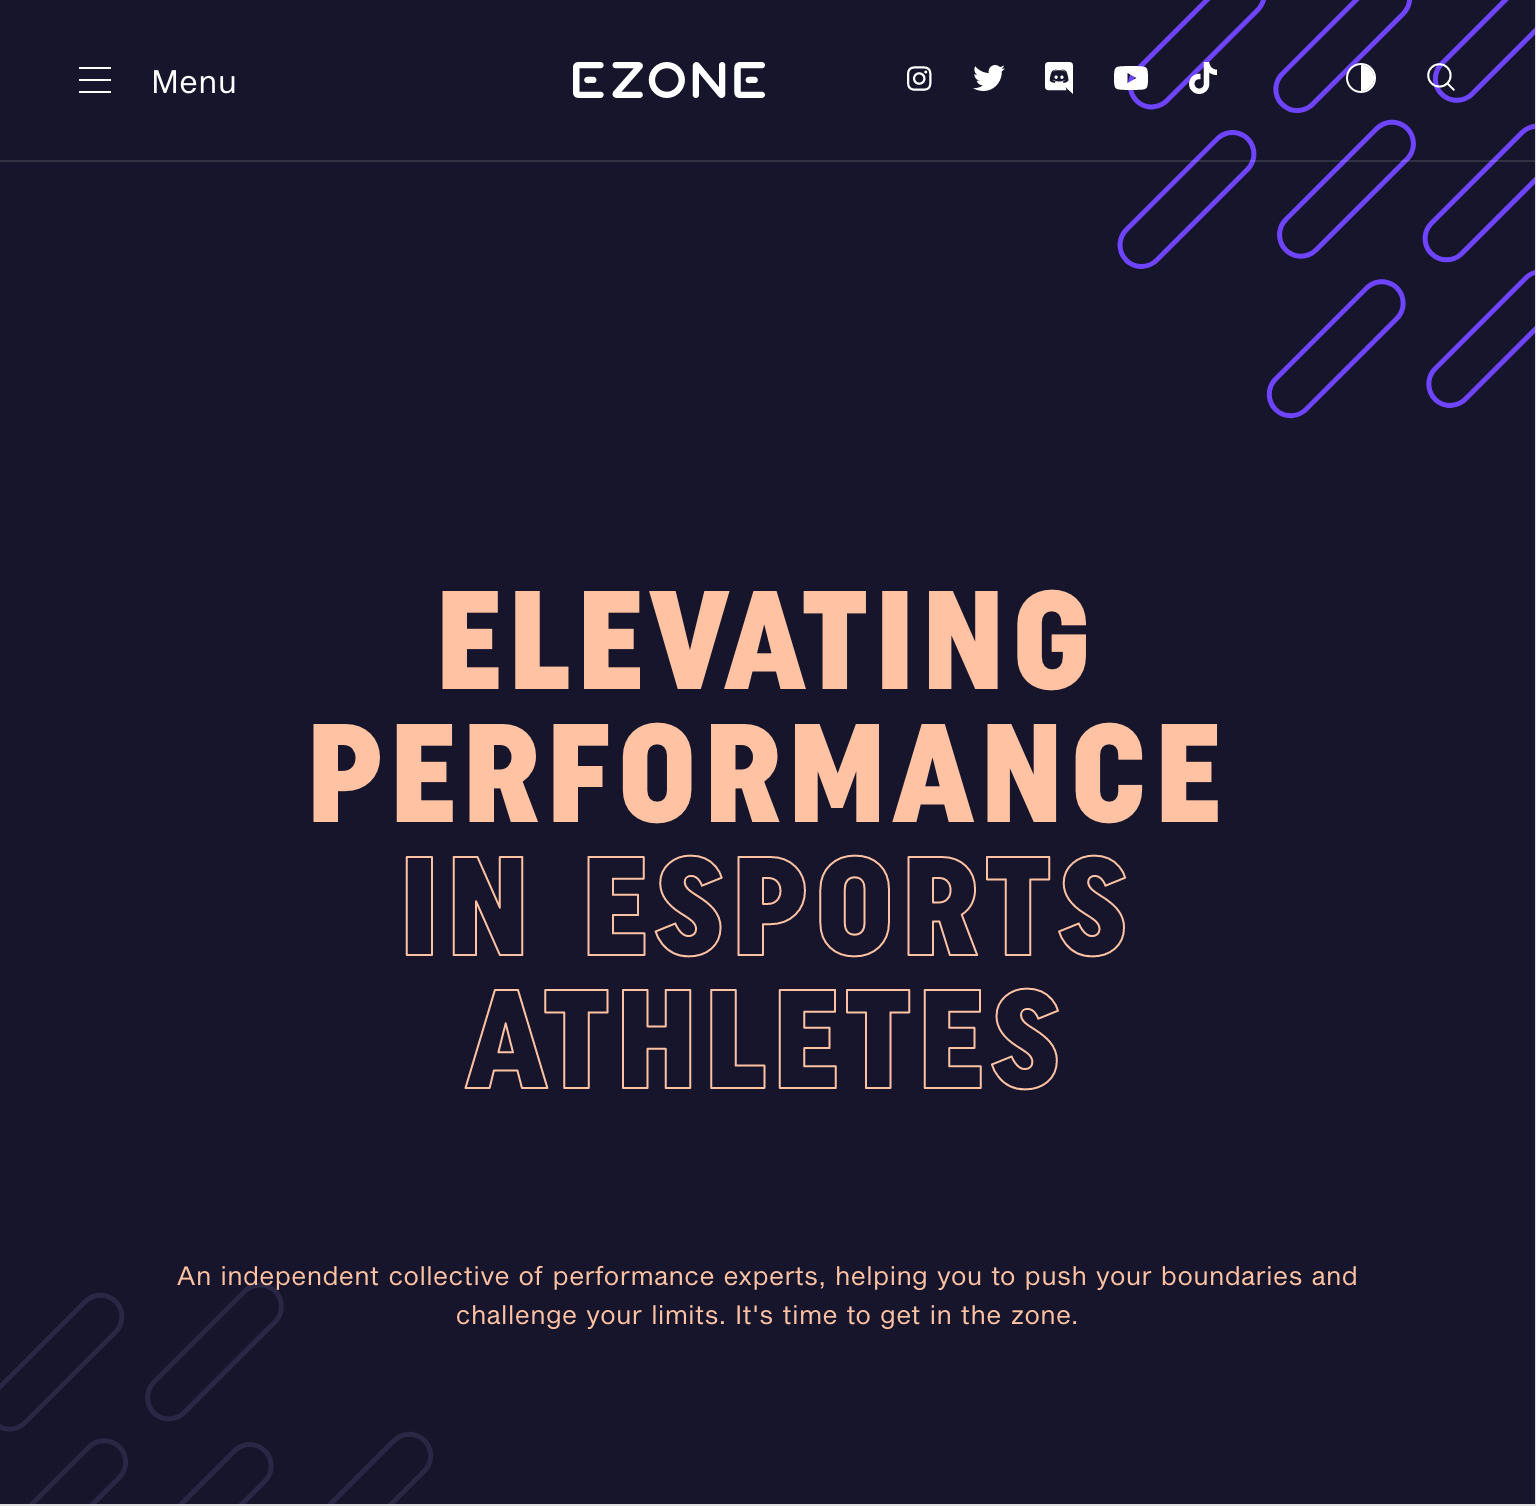
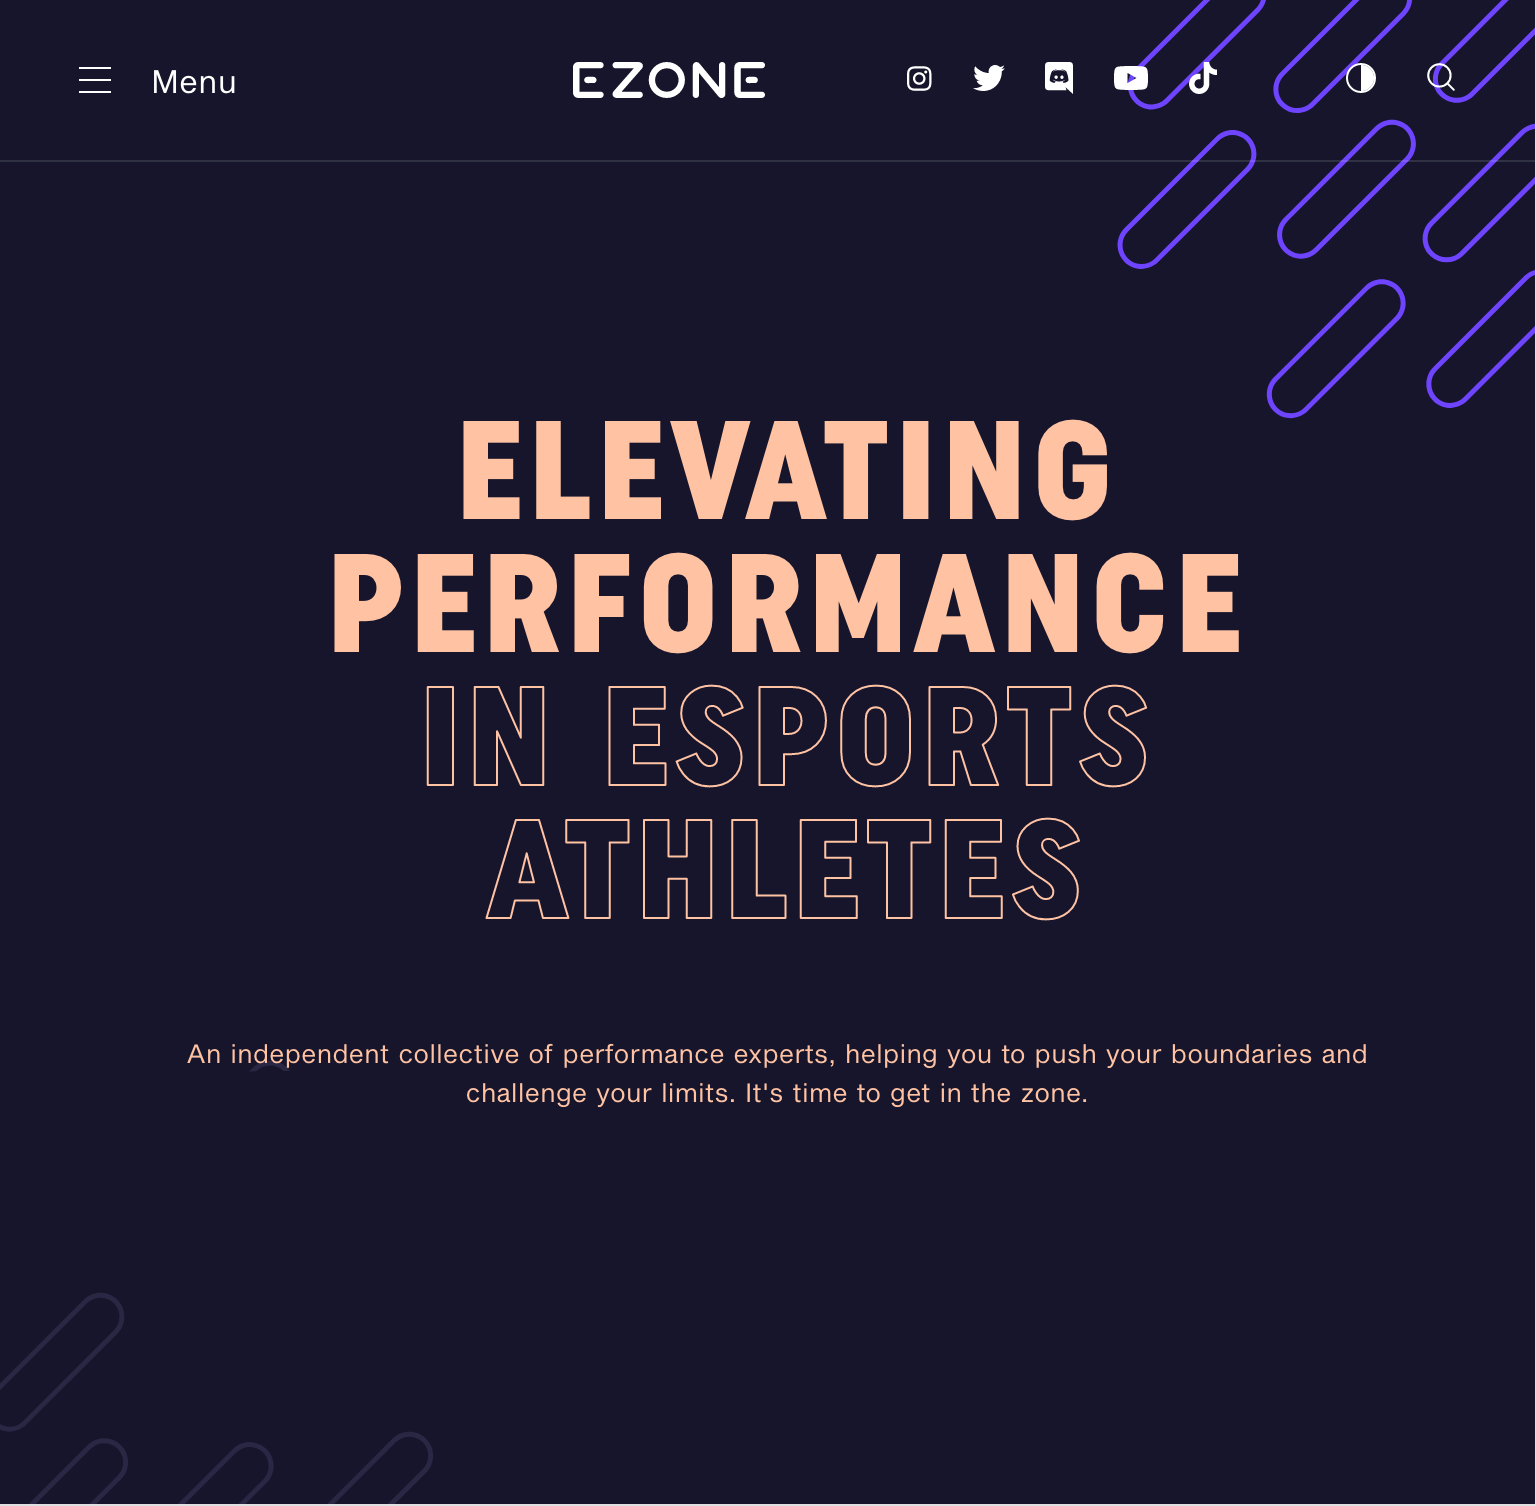
landingpage

diff --git a/sass/layout/_landingpage.scss b/sass/layout/_landingpage.scss
@@ -1,0 +1,27 @@
+.background {
+  width: 100%;
+  height: 100vh;
+  background-image: url(/img/375vw.png);
+  background-size: contain;
+  //   position: relative;
+  //   overflow-y: hidden;
+  button {
+    position: absolute;
+    top: 70%;
+    left: 50%;
+    transform: translateX(-50%);
+  }
+  @media (min-width: 768px) {
+    background-image: url(/img/768vw.png);
+    button {
+      top: 60%;
+    }
+  }
+  @media (min-width: 1440px) {
+    background-image: url(/img/1440vw.png);
+    background-size: cover;
+    button {
+      top: 90%;
+    }
+  }
+}

diff --git a/sass/layout/index.scss b/sass/layout/index.scss
@@ -1,2 +1,3 @@
 @forward "card_one_and_card_three";
 @forward "card_two";
+@forward "landingpage";
